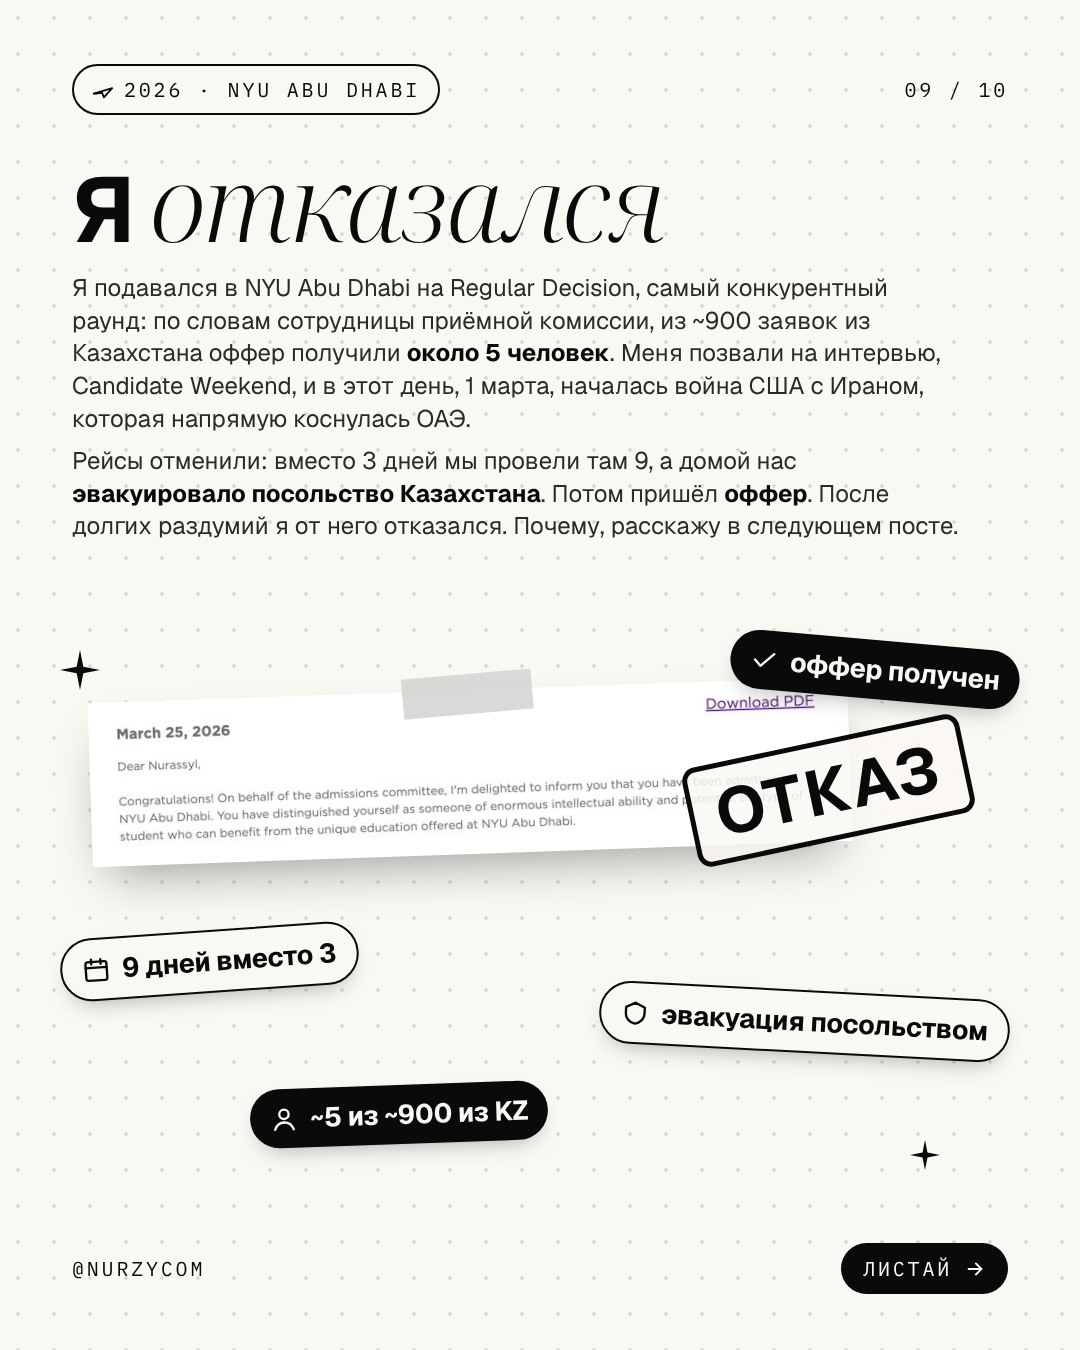
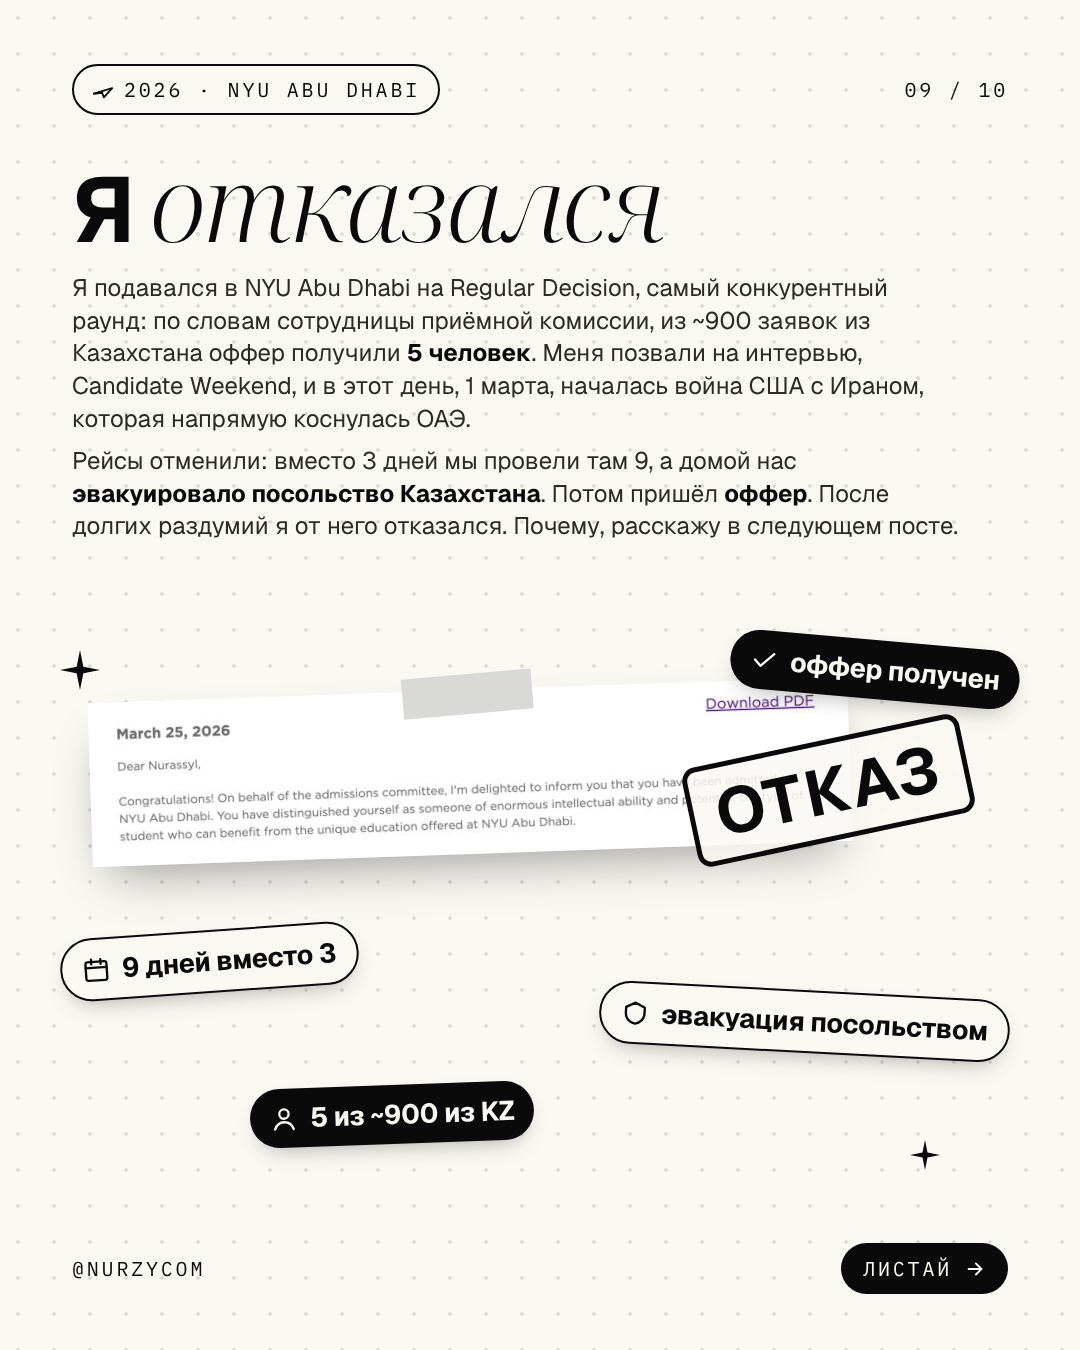
Story slide 9: exactly 5 NYUAD offers
Claude-Session: https://claude.ai/code/session_01EUKBNPzc7y2DXSfnei23HU

Changed region(s): [[0.3667, 0.2489, 0.8556, 0.28], [0.275, 0.8089, 0.5194, 0.84]]

diff --git a/social/story/slide-09.html b/social/story/slide-09.html
@@ -86,7 +86,7 @@
 
   <div class="text">
     <h1>Я <em>отказался</em></h1>
-    <p class="sub">Я подавался в NYU Abu Dhabi на Regular Decision, самый конкурентный раунд: по словам сотрудницы приёмной комиссии, из&nbsp;~900 заявок из Казахстана оффер получили <b>около 5 человек</b>. Меня позвали на интервью, Candidate Weekend, и&nbsp;в&nbsp;этот день, 1 марта, началась война США с Ираном, которая напрямую коснулась ОАЭ.</p>
+    <p class="sub">Я подавался в NYU Abu Dhabi на Regular Decision, самый конкурентный раунд: по словам сотрудницы приёмной комиссии, из&nbsp;~900 заявок из Казахстана оффер получили <b>5 человек</b>. Меня позвали на интервью, Candidate Weekend, и&nbsp;в&nbsp;этот день, 1 марта, началась война США с Ираном, которая напрямую коснулась ОАЭ.</p>
     <p class="sub">Рейсы отменили: вместо 3 дней мы провели там 9, а домой нас <b>эвакуировало посольство Казахстана</b>. Потом пришёл <b>оффер</b>. После долгих раздумий я от него отказался. Почему, расскажу в следующем посте.</p>
   </div>
 
@@ -96,7 +96,7 @@
   <span class="sticker s-dark s1"><svg class="i" viewBox="0 0 24 24"><path d="M20 6L9 17l-5-5"/></svg>оффер получен</span>
   <span class="sticker s-light s2"><svg class="i" viewBox="0 0 24 24"><rect x="3" y="5" width="18" height="16" rx="2"/><path d="M3 10h18M8 3v4M16 3v4"/></svg>9 дней вместо 3</span>
   <span class="sticker s-light s3"><svg class="i" viewBox="0 0 24 24"><path d="M12 3l8 4v5c0 4.5-3.4 8.3-8 9-4.6-.7-8-4.5-8-9V7z"/></svg>эвакуация посольством</span>
-  <span class="sticker s-dark s4"><svg class="i" viewBox="0 0 24 24"><circle cx="12" cy="8" r="4"/><path d="M4 21c1.5-4 4.5-6 8-6s6.5 2 8 6"/></svg>~5 из ~900 из KZ</span>
+  <span class="sticker s-dark s4"><svg class="i" viewBox="0 0 24 24"><circle cx="12" cy="8" r="4"/><path d="M4 21c1.5-4 4.5-6 8-6s6.5 2 8 6"/></svg>5 из ~900 из KZ</span>
   <svg class="sparkle sp1" viewBox="0 0 24 24"><path d="M12 0 L14 10 L24 12 L14 14 L12 24 L10 14 L0 12 L10 10 Z"/></svg>
   <svg class="sparkle sp2" viewBox="0 0 24 24"><path d="M12 0 L14 10 L24 12 L14 14 L12 24 L10 14 L0 12 L10 10 Z"/></svg>
 

diff --git a/CLAUDE.md b/CLAUDE.md
@@ -22,7 +22,7 @@ You are continuing work on the personal brand and tutoring business of Nurassyl 
 - 2023 diplomas seen (grade 9): Republican olympiad, chemistry, I degree (Shymkent, 20-25 March 2023); Republican science projects competition, II degree; XXX International Tuymaada Olympiad, chemistry junior league, First Degree Diploma (Yakutsk, 2-10 July 2023). "Absolute champion" of Tuymaada is not shown on the diploma: do not publish it without the official results list.
 - 2024 diplomas seen (grade 10): Republican olympiad, chemistry, II degree (27-31 March 2024); XXXI Tuymaada, chemistry senior league, Third Degree Diploma (Yakutsk, 3-11 July 2024); Republican research conference «Жас әл-Фараби» (KazNU), Informatics/IT section, III degree (Almaty, 2024). The Farabi diploma is not in his Common App or in the 5-medal count: ask before counting it.
 - SAT 1560 is a superscore: Reading & Writing 760 (May 2025) + Math 800 (Dec 2025). IELTS Academic (computer) 8.0, test date 28 Feb 2025: L 8, R 8.5, W 8, S 7. SAT reports seen: May 2025 total 1490 (RW 760, M 730); Dec 2025 total 1520 (RW 720, M 800). Never publish test-taker ID, TRF number or SAT record locator.
-- Admitted to NYU Abu Dhabi, Regular Decision (offer letter dated 25 March 2026), declined it and chose NU. Story he tells: invited to Candidate Weekend; on interview day (1 March 2026) a US-Iran war began that affected the UAE; stayed 9 days instead of 3 and was evacuated by the Embassy of Kazakhstan. His 4 reasons for declining are saved for a later post. The "~5 offers out of ~900 from Kazakhstan" figure comes verbally from an NYUAD admissions committee member: publish only with that attribution (see hard rule 5).
+- Admitted to NYU Abu Dhabi, Regular Decision (offer letter dated 25 March 2026), declined it and chose NU. Story he tells: invited to Candidate Weekend; on interview day (1 March 2026) a US-Iran war began that affected the UAE; stayed 9 days instead of 3 and was evacuated by the Embassy of Kazakhstan. His 4 reasons for declining are saved for a later post. The "5 offers out of ~900 from Kazakhstan" figure (5 is exact, 900 is approximate) comes verbally from an NYUAD admissions committee member: publish only with that attribution (see hard rule 5).
 - Nazarbayev University: admitted to Chemical and Materials Engineering on a **grant** (offer dated 9 April 2026). Never publish the Applicant ID.
 - A student he tutored finished Organic Chemistry I at UC San Diego Extended Studies with a 92.4% final grade (publish unnamed, as a result only)
 
@@ -32,7 +32,7 @@ You are continuing work on the personal brand and tutoring business of Nurassyl 
 2. **Official scores only.** Practice-test scores and expected scores are never published as results.
 3. **Consent first.** Publish a student's name, score or words only with written consent, plus a parent's consent if under 18. Anonymous is fine ("Student, grade 11").
 4. **Shared students stay off public materials for now.** Alan, Dastan and Nurislam were taught through an employer company and partly by another tutor (Karakat). Do not use their results until permission and fair wording are settled. Never claim sole credit. Never suggest poaching company students.
-5. **Do not publish** an IQ score. The NYUAD figure ("~5 offers from ~900 Kazakhstan applicants, Regular Decision") may be published only with its source: "по словам сотрудницы приёмной комиссии NYUAD" (told to Nurassyl in person). Never turn it into a percentage or an official statistic.
+5. **Do not publish** an IQ score. The NYUAD figure ("exactly 5 offers from ~900 Kazakhstan applicants, Regular Decision") may be published only with its source: "по словам сотрудницы приёмной комиссии NYUAD" (told to Nurassyl in person). Never turn it into a percentage or an official statistic.
 6. **No guarantees.** Never promise a specific score; offer "a realistic range after the diagnostic".
 
 ## Activities (corrected by Nurassyl, 2026-10-13)
